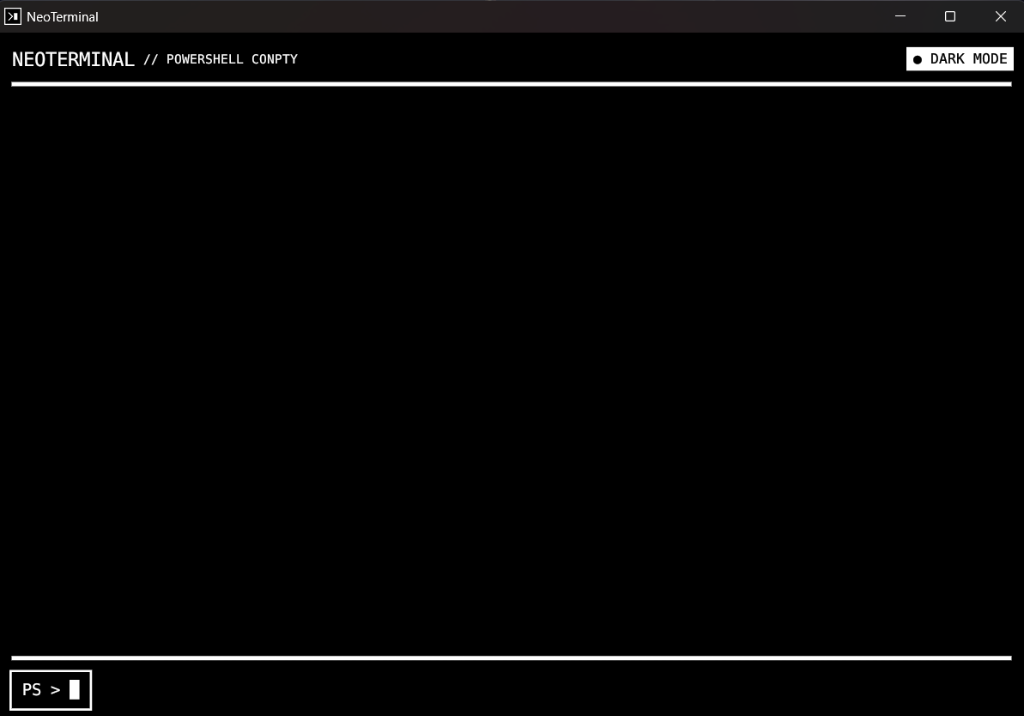
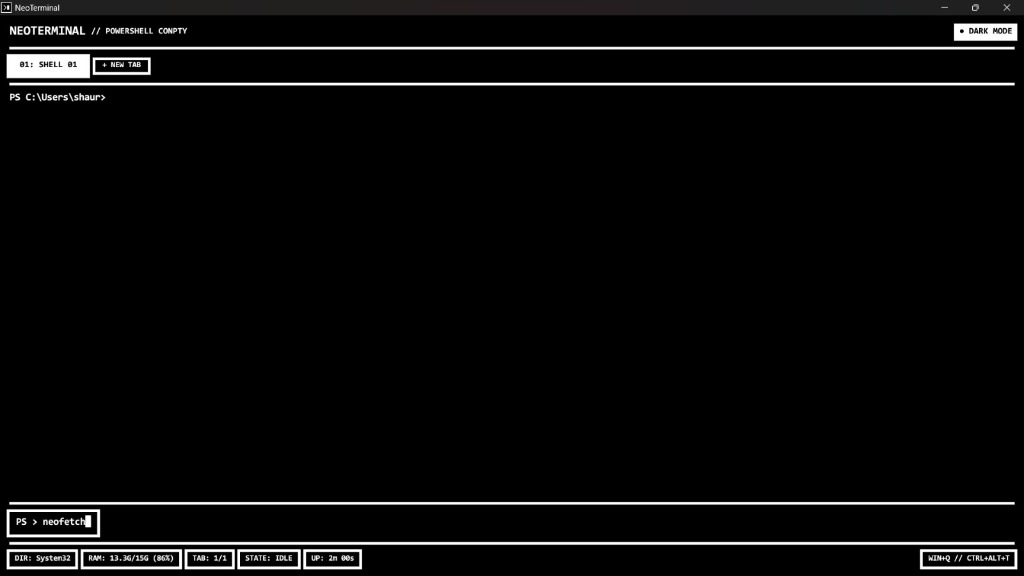
Update README with new high-res screenshots, skills, and tools breakdown

Changed region(s): [[0.0, 0.0, 1.0, 0.1875], [0.0, 0.8438, 1.0, 1.0]]

diff --git a/src/bin/neohotkey.rs b/src/bin/neohotkey.rs
@@ -1,6 +1,7 @@
 #![windows_subsystem = "windows"]
 
 use std::process::Command;
+use std::time::{Duration, Instant};
 
 #[repr(C)]
 #[derive(Clone, Copy)]
@@ -37,6 +38,7 @@ extern "system" {
         lpName: *const u16,
     ) -> *mut std::ffi::c_void;
     fn GetLastError() -> u32;
+    fn SetLastError(dwErrCode: u32);
 }
 
 #[link(name = "user32")]
@@ -56,7 +58,11 @@ extern "system" {
 
 const WH_KEYBOARD_LL: i32 = 13;
 const WM_KEYDOWN: usize = 0x0100;
+const WM_KEYUP: usize = 0x0101;
 const WM_SYSKEYDOWN: usize = 0x0104;
+const WM_SYSKEYUP: usize = 0x0105;
+
+const LLKHF_INJECTED: u32 = 0x00000010;
 
 const VK_LWIN: i32 = 0x5B;
 const VK_RWIN: i32 = 0x5C;
@@ -65,11 +71,21 @@ const VK_MENU: i32 = 0x12;
 const VK_Q: u32 = 0x51;
 const VK_T: u32 = 0x54;
 
-static mut LAST_LAUNCH: u32 = 0;
+static mut LAST_LAUNCH: Option<Instant> = None;
+static mut KEY_ACTIVE: bool = false;
 
 unsafe extern "system" fn hook_proc(code: i32, wparam: usize, lparam: isize) -> isize {
-    if code >= 0 && (wparam == WM_KEYDOWN || wparam == WM_SYSKEYDOWN) {
+    if code >= 0 {
         let kbd = *(lparam as *const KBDLLHOOKSTRUCT);
+
+        // Ignore injected/synthetic keystrokes to prevent secondary hooks/overlays from double-firing
+        if (kbd.flags & LLKHF_INJECTED) != 0 {
+            return CallNextHookEx(std::ptr::null_mut(), code, wparam, lparam);
+        }
+
+        let is_key_down = wparam == WM_KEYDOWN || wparam == WM_SYSKEYDOWN;
+        let is_key_up = wparam == WM_KEYUP || wparam == WM_SYSKEYUP;
+
         let win_down = GetAsyncKeyState(VK_LWIN) < 0 || GetAsyncKeyState(VK_RWIN) < 0;
         let ctrl_down = GetAsyncKeyState(VK_CONTROL) < 0;
         let alt_down = GetAsyncKeyState(VK_MENU) < 0;
@@ -78,16 +94,36 @@ unsafe extern "system" fn hook_proc(code: i32, wparam: usize, lparam: isize) -> 
         let is_ctrl_alt_t = ctrl_down && alt_down && kbd.vk_code == VK_T;
 
         if is_win_q || is_ctrl_alt_t {
-            if kbd.time.wrapping_sub(LAST_LAUNCH) > 600 {
-                LAST_LAUNCH = kbd.time;
-                let exe_path = if std::path::Path::new("C:\\Users\\shaur\\NeoTerminal.exe").exists() {
-                    "C:\\Users\\shaur\\NeoTerminal.exe"
-                } else {
-                    "C:\\Users\\shaur\\Documents\\antigravity\\bold-galileo\\NeoTerminal\\target\\release\\NeoTerminal.exe"
-                };
-                let _ = Command::new(exe_path).spawn();
+            if is_key_down {
+                // If this hotkey stroke is already actively held down, ignore repeated auto-repeat events
+                if !KEY_ACTIVE {
+                    KEY_ACTIVE = true;
+
+                    // Monotonic wall-clock debounce (at least 1000ms between launches)
+                    let should_launch = match LAST_LAUNCH {
+                        Some(last) => last.elapsed() >= Duration::from_millis(1000),
+                        None => true,
+                    };
+
+                    if should_launch {
+                        LAST_LAUNCH = Some(Instant::now());
+                        let exe_path = if std::path::Path::new("C:\\Users\\shaur\\NeoTerminal.exe").exists() {
+                            "C:\\Users\\shaur\\NeoTerminal.exe"
+                        } else {
+                            "C:\\Users\\shaur\\Documents\\antigravity\\bold-galileo\\NeoTerminal\\target\\release\\NeoTerminal.exe"
+                        };
+                        let _ = Command::new(exe_path).spawn();
+                    }
+                }
+                return 1;
             }
-            return 1;
+        }
+
+        // When any trigger or modifier key is released, reset the latch
+        if is_key_up {
+            if kbd.vk_code == VK_T || kbd.vk_code == VK_Q || !ctrl_down || !alt_down || !win_down {
+                KEY_ACTIVE = false;
+            }
         }
     }
     CallNextHookEx(std::ptr::null_mut(), code, wparam, lparam)
@@ -96,7 +132,8 @@ unsafe extern "system" fn hook_proc(code: i32, wparam: usize, lparam: isize) -> 
 fn main() {
     unsafe {
         // Enforce single-instance mutex to prevent duplicate daemons
-        let mutex_name: Vec<u16> = "Global\\NeoTerminalHotkeyDaemonMutex\0"
+        SetLastError(0);
+        let mutex_name: Vec<u16> = "Local\\NeoTerminalHotkeyDaemonMutex\0"
             .encode_utf16()
             .collect();
         let mutex = CreateMutexW(std::ptr::null_mut(), 0, mutex_name.as_ptr());

diff --git a/README.md b/README.md
@@ -1,14 +1,32 @@
 # NeoTerminal ⚡
 
-A high-performance, native desktop GUI terminal emulator built in **Rust**, powered by **eframe (egui)** and **portable-pty (ConPTY)** with a bold **Neo-Brutalist** aesthetic.
+> A high-performance native desktop terminal emulator built from scratch in **Rust**, powered by **Windows ConPTY** with an uncompromising, high-contrast **Neo-Brutalist design**.
 
 ---
 
 ## 📸 Screenshots
 
-| Dark Mode | Light Mode |
+| Dark Mode (Multi-Tabs & Status Strip) | Light Mode (High Contrast) |
 |:---:|:---:|
 | ![Dark Mode](assets/screenshots/dark_mode.png) | ![Light Mode](assets/screenshots/light_mode.png) |
+
+<p align="center">
+  <b>Built-in <code>neofetch</code> Easter Egg with Custom ASCII Art & System Specs</b><br><br>
+  <img src="assets/screenshots/neofetch.png" alt="NeoTerminal Neofetch" width="95%"/>
+</p>
+
+---
+
+## 🛠 Skills & Technologies Used
+
+| Category | Details |
+| :--- | :--- |
+| **Core Languages** | **Rust** (100% native codebase) |
+| **GUI Framework** | **eframe / egui** (Immediate-mode native GUI, Consolas Bold typography) |
+| **Subsystems & APIs** | **Windows ConPTY** (`portable-pty`), **Win32 API** (`kernel32`), Low-Level Keyboard Hooks (`WH_KEYBOARD_LL`) |
+| **Architecture** | Multithreaded reader channels (`std::sync::mpsc`), Mutex-guarded PTY writers, Sub-millisecond rendering |
+| **Design System** | **Neo-Brutalism** (Uniform 4px borders, pure `#000000` / `#ffffff` palettes, zero corner rounding) |
+| **Tooling & Build** | **Cargo**, **Rustc**, **MinGW-w64 (w64devkit)**, **PowerShell**, **Git & GitHub** |
 
 ---
 
@@ -75,8 +93,9 @@ NeoTerminal/
 ├── assets/
 │   ├── NeoTerminal.ico            # Windows Application Icon
 │   └── screenshots/
-│       ├── dark_mode.png          # Dark Mode Preview
-│       └── light_mode.png         # Light Mode Preview
+│       ├── dark_mode.png          # Dark Mode (Tabs & Status Strip)
+│       ├── light_mode.png         # Light Mode Preview
+│       └── neofetch.png           # Custom Neofetch Easter Egg
 ├── .cargo/
 │   └── config.toml                # Linker & build configuration
 ├── src/
